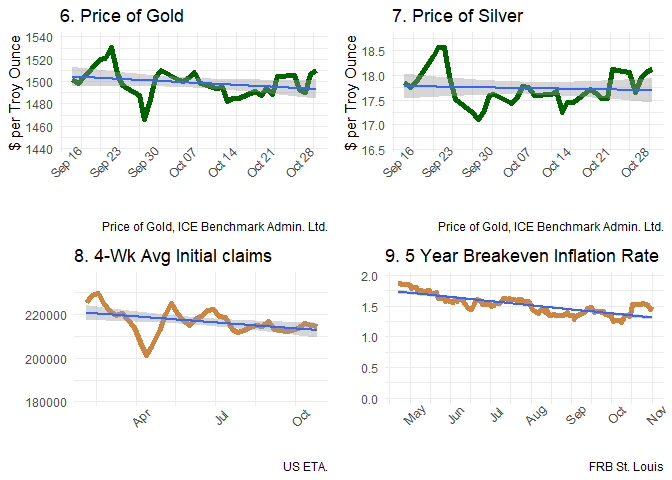
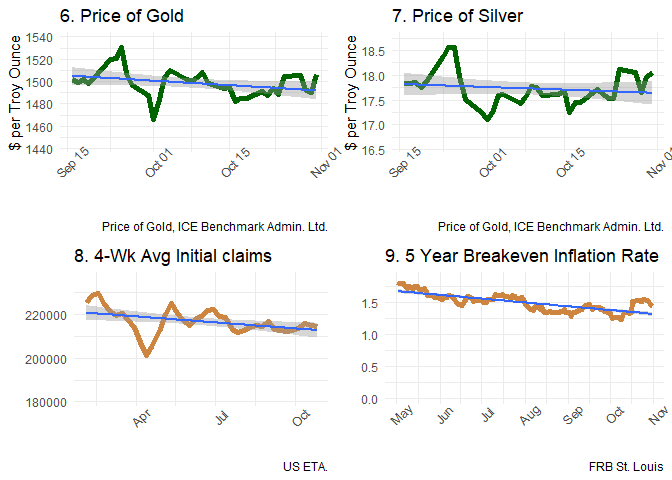
fix dates for FRED

diff --git a/README.md b/README.md
@@ -2,13 +2,13 @@ Daily information summary of economic indicators available from FRED,
 FRB St. Louis
 ================
 Paul G. Smith
-First created on Oct 31, 2019. Updated on Nov 02, 2019
+First created on Oct 31, 2019. Updated on Nov 04, 2019
 
   - [Daily information summary of economic indicators available from
     FRED, FRB
     St. Louis](#daily-information-summary-of-economic-indicators-available-from-fred-frb-st.-louis)
-      - [Saturday Morning Update: November 02,
-        2019](#saturday-morning-update-november-02-2019)
+      - [Monday Morning Update: November 04,
+        2019](#monday-morning-update-november-04-2019)
       - [1. Six-Month Change in Major Stock
         Indexes](#six-month-change-in-major-stock-indexes)
       - [2. WTI Crude Oil Price](#wti-crude-oil-price)
@@ -27,9 +27,9 @@ First created on Oct 31, 2019. Updated on Nov 02, 2019
         1980](#consumer-price-index-growth-since-1980)
       - [13. Producer Price Index Growth Since
         1980](#producer-price-index-growth-since-1980)
-      - [Finally, Print the Plots for Saturday Morning Update: November
-        02,
-        2019](#finally-print-the-plots-for-saturday-morning-update-november-02-2019)
+      - [Finally, Print the Plots for Monday Morning Update: November
+        04,
+        2019](#finally-print-the-plots-for-monday-morning-update-november-04-2019)
 
 ## Daily information summary of economic indicators available from FRED, FRB St. Louis
 
@@ -95,7 +95,7 @@ source("Functions.R", echo = TRUE)
     ## +     df$series_id <- NULL
     ## +   .... [TRUNCATED]
 
-### Saturday Morning Update: November 02, 2019
+### Monday Morning Update: November 04, 2019
 
 ### 1\. Six-Month Change in Major Stock Indexes
 
@@ -104,24 +104,19 @@ source("001_Six month indexes.R", echo = TRUE)
 ```
 
     ## 
-    ## > end_date <- now() - 1
+    ## > end_date <- Sys.Date() - 1
     ## 
-    ## > if (wday(now() - 1) > 6 || wday(now() - 1) == 1) {
-    ## +     end_date <- as_date(now() - days(wday(now() - 1) - 6))
+    ## > if (wday(end_date) == 1) {
+    ## +     end_date <- end_date - 3
+    ## + } else if (wday(end_date) == 7) {
+    ## +     end_date <- end_date - 2
     ## + }
     ## 
-    ## > start_date <- as_date((now() - 1) - days(26 * 7) - 
-    ## +     days(1))
+    ## > start_date <- end_date - (26 * 7)
     ## 
     ## > end_date2 <- start_date
     ## 
-    ## > start_date2 <- start_date - days(26 * 7)
-    ## 
-    ## > end_date - start_date
-    ## Time difference of 182 days
-    ## 
-    ## > end_date2 - start_date2
-    ## Time difference of 182 days
+    ## > start_date2 <- start_date - (26 * 7)
     ## 
     ## > fr_DJIA <- fredr(series_id = "DJIA", start_date, end_date)
     ## 
@@ -131,8 +126,7 @@ source("001_Six month indexes.R", echo = TRUE)
     ## > fr_NASDAQCOM <- fredr(series_id = "NASDAQCOM", start_date, 
     ## +     end_date)
     ## 
-    ## > date <- seq(as_date(start_date), as_date(end_date), 
-    ## +     by = "days")
+    ## > date <- seq(start_date, end_date, by = "days")
     ## 
     ## > fr_dates <- as.data.frame(date)
     ## 
@@ -156,8 +150,7 @@ source("001_Six month indexes.R", echo = TRUE)
     ## > fr_NASDAQCOM <- fredr(series_id = "NASDAQCOM", start_date2, 
     ## +     end_date2)
     ## 
-    ## > date <- seq(as_date(start_date2), as_date(end_date2), 
-    ## +     by = "days")
+    ## > date <- seq(start_date2, end_date2, by = "days")
     ## 
     ## > fr_dates <- as.data.frame(date)
     ## 
@@ -197,18 +190,15 @@ source("002_WTI crude oil price.R", echo = TRUE)
 ```
 
     ## 
-    ## > user_api_key <- read.csv("../../fred_api_key.csv", 
-    ## +     stringsAsFactors = TRUE, as.is = TRUE)
+    ## > end_date <- Sys.Date() - 1
     ## 
-    ## > fredr_set_key(user_api_key$fredAPIkey)
-    ## 
-    ## > end_date <- now() - 1
-    ## 
-    ## > if (wday(now() - 1) > 6 || wday(now() - 1) == 1) {
-    ## +     end_date <- as_date(now() - days(wday(now() - 1) - 6))
+    ## > if (wday(end_date) == 1) {
+    ## +     end_date <- end_date - 3
+    ## + } else if (wday(end_date) == 7) {
+    ## +     end_date <- end_date - 2
     ## + }
     ## 
-    ## > start_date <- as_date((now() - 1) - days(45))
+    ## > start_date <- end_date - (45)
     ## 
     ## > fr_DCOILWTICO <- makeFREDtable("DCOILWTICO", start.date = start_date, 
     ## +     end.date = end_date)
@@ -226,18 +216,15 @@ source("003_Gas gulf coast regular price.R", echo = TRUE)
 ```
 
     ## 
-    ## > user_api_key <- read.csv("../../fred_api_key.csv", 
-    ## +     stringsAsFactors = TRUE, as.is = TRUE)
+    ## > end_date <- Sys.Date() - 1
     ## 
-    ## > fredr_set_key(user_api_key$fredAPIkey)
-    ## 
-    ## > end_date <- now() - 1
-    ## 
-    ## > if (wday(now() - 1) > 6 || wday(now() - 1) == 1) {
-    ## +     end_date <- as_date(now() - days(wday(now() - 1) - 6))
+    ## > if (wday(end_date) == 1) {
+    ## +     end_date <- end_date - 3
+    ## + } else if (wday(end_date) == 7) {
+    ## +     end_date <- end_date - 2
     ## + }
     ## 
-    ## > start_date <- as_date((now() - 1) - days(45))
+    ## > start_date <- end_date - (45)
     ## 
     ## > fr_DGASUSGULF <- makeFREDtable("DGASUSGULF", start.date = start_date, 
     ## +     end.date = end_date)
@@ -275,13 +262,15 @@ source("005_ULS 2 diesel price.R", echo = TRUE)
 ```
 
     ## 
-    ## > end_date <- now() - 1
+    ## > end_date <- Sys.Date() - 1
     ## 
-    ## > if (wday(now() - 1) > 6 || wday(now() - 1) == 1) {
-    ## +     end_date <- as_date(now() - days(wday(now() - 1) - 6))
+    ## > if (wday(end_date) == 1) {
+    ## +     end_date <- end_date - 3
+    ## + } else if (wday(end_date) == 7) {
+    ## +     end_date <- end_date - 2
     ## + }
     ## 
-    ## > start_date <- as_date((now() - 1) - days(45))
+    ## > start_date <- end_date - (45)
     ## 
     ## > fr_DDFUELLA <- makeFREDtable("DDFUELLA", start.date = start_date, 
     ## +     end.date = end_date)
@@ -299,13 +288,15 @@ source("006_Price of gold.R", echo = TRUE)
 ```
 
     ## 
-    ## > end_date <- now() - 1
+    ## > end_date <- Sys.Date() - 1
     ## 
-    ## > if (wday(now() - 1) > 6 || wday(now() - 1) == 1) {
-    ## +     end_date <- as_date(now() - days(wday(now() - 1) - 6))
+    ## > if (wday(end_date) == 1) {
+    ## +     end_date <- end_date - 3
+    ## + } else if (wday(end_date) == 7) {
+    ## +     end_date <- end_date - 2
     ## + }
     ## 
-    ## > start_date <- as_date((now() - 1) - days(45))
+    ## > start_date <- end_date - (45)
     ## 
     ## > fr_GOLDAMGBD228NLBM <- makeFREDtable("GOLDAMGBD228NLBM", 
     ## +     start.date = start_date, end.date = end_date)
@@ -332,13 +323,15 @@ source("007_Price of silver.R", echo = TRUE)
 ```
 
     ## 
-    ## > end_date <- now() - 1
+    ## > end_date <- Sys.Date() - 1
     ## 
-    ## > if (wday(now() - 1) > 6 || wday(now() - 1) == 1) {
-    ## +     end_date <- as_date(now() - days(wday(now() - 1) - 6))
+    ## > if (wday(end_date) == 1) {
+    ## +     end_date <- end_date - 3
+    ## + } else if (wday(end_date) == 7) {
+    ## +     end_date <- end_date - 2
     ## + }
     ## 
-    ## > start_date <- as_date((now() - 1) - days(45))
+    ## > start_date <- end_date - (45)
     ## 
     ## > fr_SLVPRUSD <- makeFREDtable("SLVPRUSD", start.date = start_date, 
     ## +     end.date = end_date)
@@ -363,14 +356,15 @@ source("008_Unemployment initial claims.R", echo = TRUE)
 ```
 
     ## 
-    ## > end_date <- now() - 1
+    ## > end_date <- Sys.Date() - 1
     ## 
-    ## > if (wday(now() - 1) > 6 || wday(now() - 1) == 1) {
-    ## +     end_date <- as_date(now() - days(wday(now() - 1) - 6))
+    ## > if (wday(end_date) == 1) {
+    ## +     end_date <- end_date - 3
+    ## + } else if (wday(end_date) == 7) {
+    ## +     end_date <- end_date - 2
     ## + }
     ## 
-    ## > start_date <- as_date((now() - 1) - days(3 * (13 * 
-    ## +     7)))
+    ## > start_date <- end_date - (3 * (13 * 7))
     ## 
     ## > fr_IC4WSA <- makeFREDtable("IC4WSA", start.date = start_date, 
     ## +     end.date = end_date)
@@ -394,14 +388,15 @@ source("009_Breakeven inflation.R", echo = TRUE)
 ```
 
     ## 
-    ## > end_date <- now() - 1
+    ## > end_date <- Sys.Date() - 1
     ## 
-    ## > if (wday(now() - 1) > 6 || wday(now() - 1) == 1) {
-    ## +     end_date <- as_date(now() - days(wday(now() - 1) - 6))
+    ## > if (wday(end_date) == 1) {
+    ## +     end_date <- end_date - 3
+    ## + } else if (wday(end_date) == 7) {
+    ## +     end_date <- end_date - 2
     ## + }
     ## 
-    ## > start_date <- as_date((now() - 1) - days(2 * (14 * 
-    ## +     7)))
+    ## > start_date <- end_date - (2 * (13 * 7))
     ## 
     ## > fr_T5YIE <- makeFREDtable("T5YIE", start.date = start_date, 
     ## +     end.date = end_date)
@@ -425,10 +420,12 @@ source("010_GDP growth.R", echo = TRUE)
 ```
 
     ## 
-    ## > end_date <- now() - 1
+    ## > end_date <- Sys.Date() - 1
     ## 
-    ## > if (wday(now() - 1) > 6 || wday(now() - 1) == 1) {
-    ## +     end_date <- as_date(now() - days(wday(now() - 1) - 6))
+    ## > if (wday(end_date) == 1) {
+    ## +     end_date <- end_date - 3
+    ## + } else if (wday(end_date) == 7) {
+    ## +     end_date <- end_date - 2
     ## + }
     ## 
     ## > start_date <- ymd("19800101")
@@ -456,10 +453,12 @@ source("011_M2 money stock growth.R", echo = TRUE)
 ```
 
     ## 
-    ## > end_date <- now() - 1
+    ## > end_date <- Sys.Date() - 1
     ## 
-    ## > if (wday(now() - 1) > 6 || wday(now() - 1) == 1) {
-    ## +     end_date <- as_date(now() - days(wday(now() - 1) - 6))
+    ## > if (wday(end_date) == 1) {
+    ## +     end_date <- end_date - 3
+    ## + } else if (wday(end_date) == 7) {
+    ## +     end_date <- end_date - 2
     ## + }
     ## 
     ## > start_date <- ymd("19800101")
@@ -486,10 +485,12 @@ source("012_Consumer price index growth.R", echo = TRUE)
 ```
 
     ## 
-    ## > end_date <- now() - 1
+    ## > end_date <- Sys.Date() - 1
     ## 
-    ## > if (wday(now() - 1) > 6 || wday(now() - 1) == 1) {
-    ## +     end_date <- as_date(now() - days(wday(now() - 1) - 6))
+    ## > if (wday(end_date) == 1) {
+    ## +     end_date <- end_date - 3
+    ## + } else if (wday(end_date) == 7) {
+    ## +     end_date <- end_date - 2
     ## + }
     ## 
     ## > start_date <- ymd("19800101")
@@ -519,10 +520,12 @@ source("013_Producer price index growth.R", echo = TRUE)
 ```
 
     ## 
-    ## > end_date <- now() - 1
+    ## > end_date <- Sys.Date() - 1
     ## 
-    ## > if (wday(now() - 1) > 6 || wday(now() - 1) == 1) {
-    ## +     end_date <- as_date(now() - days(wday(now() - 1) - 6))
+    ## > if (wday(end_date) == 1) {
+    ## +     end_date <- end_date - 3
+    ## + } else if (wday(end_date) == 7) {
+    ## +     end_date <- end_date - 2
     ## + }
     ## 
     ## > start_date <- ymd("19800101")
@@ -543,6 +546,6 @@ source("013_Producer price index growth.R", echo = TRUE)
     ## +     theme_minimal() + scale_x_date(breaks = pretty_breaks(6)) + 
     ## +     scale_y_continuous(limi .... [TRUNCATED]
 
-### Finally, Print the Plots for Saturday Morning Update: November 02, 2019
+### Finally, Print the Plots for Monday Morning Update: November 04, 2019
 
 ![](README_files/figure-gfm/unnamed-chunk-15-1.png)<!-- -->![](README_files/figure-gfm/unnamed-chunk-15-2.png)<!-- -->![](README_files/figure-gfm/unnamed-chunk-15-3.png)<!-- -->![](README_files/figure-gfm/unnamed-chunk-15-4.png)<!-- -->
